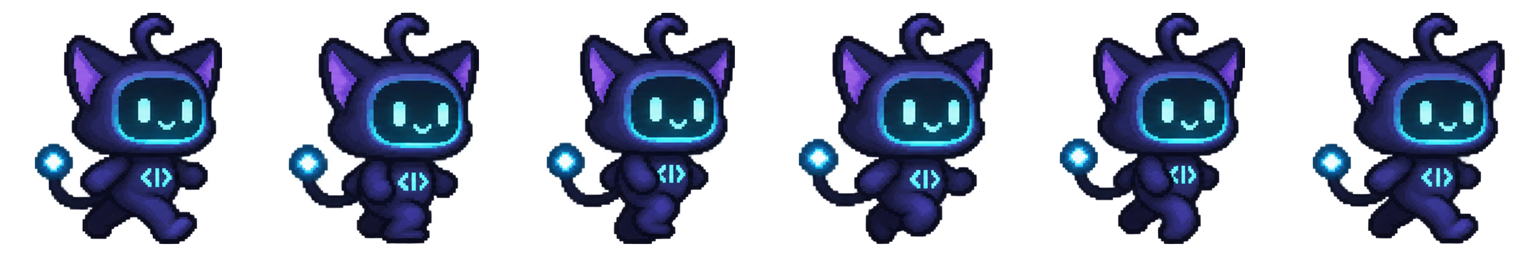
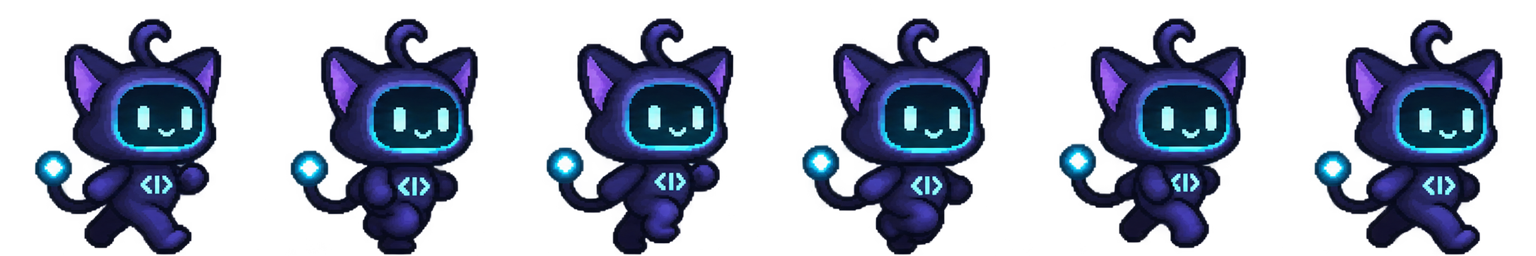
chore(debloat): promote v2 walk strips and drop the ones they replaced

diff --git a/apps/desktop/src/components/overlays/PetWindow.tsx b/apps/desktop/src/components/overlays/PetWindow.tsx
@@ -18,7 +18,7 @@ const BUILTIN_STRIPS: Record<string, Record<BuiltinPose, string>> = {
   },
   byte: {
     idle: new URL("../../../../../assets/pets/generated/byte-idle-frames.png", import.meta.url).href,
-    walk: new URL("../../../../../assets/pets/generated/byte-walk-frames-v2.png", import.meta.url).href,
+    walk: new URL("../../../../../assets/pets/generated/byte-walk-frames.png", import.meta.url).href,
     thinking: new URL("../../../../../assets/pets/generated/byte-thinking-frames.png", import.meta.url).href,
     coding: new URL("../../../../../assets/pets/generated/byte-coding-frames.png", import.meta.url).href,
     coding_malicious: new URL("../../../../../assets/pets/generated/byte-coding_malicious-frames.png", import.meta.url).href,
@@ -38,7 +38,7 @@ const BUILTIN_STRIPS: Record<string, Record<BuiltinPose, string>> = {
   },
   nova: {
     idle: new URL("../../../../../assets/pets/generated/nova-idle-frames.png", import.meta.url).href,
-    walk: new URL("../../../../../assets/pets/generated/nova-walk-frames-v2.png", import.meta.url).href,
+    walk: new URL("../../../../../assets/pets/generated/nova-walk-frames.png", import.meta.url).href,
     thinking: new URL("../../../../../assets/pets/generated/nova-thinking-frames.png", import.meta.url).href,
     coding: new URL("../../../../../assets/pets/generated/nova-coding-frames.png", import.meta.url).href,
     coding_malicious: new URL("../../../../../assets/pets/generated/nova-coding_malicious-frames.png", import.meta.url).href,
@@ -48,7 +48,7 @@ const BUILTIN_STRIPS: Record<string, Record<BuiltinPose, string>> = {
   },
   rocky: {
     idle: new URL("../../../../../assets/pets/generated/rocky-idle-frames.png", import.meta.url).href,
-    walk: new URL("../../../../../assets/pets/generated/rocky-walk-frames-v2.png", import.meta.url).href,
+    walk: new URL("../../../../../assets/pets/generated/rocky-walk-frames.png", import.meta.url).href,
     thinking: new URL("../../../../../assets/pets/generated/rocky-thinking-frames.png", import.meta.url).href,
     coding: new URL("../../../../../assets/pets/generated/rocky-coding-frames.png", import.meta.url).href,
     coding_malicious: new URL("../../../../../assets/pets/generated/rocky-coding_malicious-frames.png", import.meta.url).href,

diff --git a/DEBLOAT_PROGRESS.md b/DEBLOAT_PROGRESS.md
@@ -15,13 +15,15 @@ new history, not the existing `.git` pack (127 MiB at the start).
 - [x] 7. Compress the remaining PNGs losslessly with oxipng, keeping filenames and dimensions. — 17,555,947 bytes (418 PNGs, 67,652,804 → 50,096,857 bytes, using `oxipng 10.2.1 -o 4 --strip safe`; all 418 decode to identical pixels at the same dimensions through Electron `nativeImage`)
 - [x] 8. Make sure `.gitignore` covers `bin/`, `obj/`, `.tmp/`, `dist/`, `release/` and `node_modules/`, and add a check that flags new files over 1 MB. — 0 bytes (`.gitignore` now ignores `bin/`, `obj/` and `.tmp/` everywhere; `npm run check:hygiene`, which runs in both CI workflows, now fails on tracked files over 1 MiB that aren't on its allowlist, and also rejects tracked `release/`, `node_modules/` and `.tmp/` paths)
 
-**Total saved:** 85,769,311 bytes (steps 66,961,849 + follow-ups 18,807,462)
+**Total saved:** 86,824,907 bytes (steps 66,961,849 + follow-ups 19,863,058)
 
 ## Follow-ups (owner-approved after step 8)
 
 - [x] F1. Remove the unreferenced root `assets/pets/<pet>-<state>-<1..6>.png` frames (288) and root `<pet>-walk-frames.png`
   strips (6). — 18,807,462 bytes (measured after step 7 compression)
-- [ ] F2. Make the validator and rebuild script use the `-v2` walk strips, then remove the replaced ones.
+- [x] F2. Make the validator and rebuild script use the `-v2` walk strips, then remove the replaced ones. — 1,055,596 bytes
+  (byte/nova/rocky `-walk-frames-v2.png` replaced their `-walk-frames.png`; `PetWindow.tsx` uses one name for every pet,
+  so `check:pet-assets` now validates the walk strips actually shown; the rebuild script skips those three pets' walk strips)
 - [ ] F3. Shrink the 4 branding PNGs below 1 MiB (lossy, approved by the owner).
 - [ ] F4. Remove the `../skai-debloat` worktree.
 
@@ -90,10 +92,7 @@ for the 6 pets × 7 non-walk states. There are no other duplicates under `assets
   `legacy-tools/make-pet-frames.ps1`, so they're kept alongside it. (The step 1 audit wrongly listed them as unreferenced.)
 - **Walk sources (5,347,226 bytes, 6 files):** `normalize-pet-animations.ps1` reads `generated/$pet-walk-source.png`, and the
   pets README calls them the editable inputs. They're only removable if that rebuild path is retired.
-- **Walk strips replaced by `-v2` (1,475,957 bytes):** `generated/{byte,nova,rocky}-walk-frames.png` aren't loaded at runtime,
-  but `validate-pet-assets.cjs` requires `${pet}-walk-frames.png` for every pet, and the rebuild script writes that name
-  (not `-v2`). Rerunning the rebuild would not update the `-v2` strips the app actually uses. To remove them, first make
-  the validator and rebuild script aware of `-v2`.
+  Byte, Nova and Rocky's sources no longer feed the runtime walk strips (F2) and are kept for reference only.
 - **`normalize-pet-animations.ps1`:** step 3 changed its default input to `generated/`. The change wasn't run, because
   PowerShell (`pwsh`) isn't installed here.
 - **`archive/legacy-tools/`** (11 KB) still reads and writes the removed `*-sprite-sheet.png` files, so those scripts

diff --git a/assets/pets/README.md b/assets/pets/README.md
@@ -19,6 +19,9 @@ replacement strips in from somewhere else.
 Users can still assign local SVG/PNG/JPEG/WebP frames from the pet customization dialog; custom
 files stay on the device.
 
-Percy is the official Skai Desktop mascot and the default companion for new profiles. The six
-walk source strips in `generated/` are kept as the editable visual inputs; no atlas is required
-or loaded by the renderer.
+Byte, Nova and Rocky use hand-tuned walk strips that weren't made from their walk sources, so the rebuild
+script leaves their `walk` strip alone. Edit those strips directly.
+
+Percy is the official Skai Desktop mascot and the default companion for new profiles. The walk
+source strips in `generated/` are the editable inputs for Percy, Ember and Sprout (Byte, Nova and Rocky's
+are kept for reference). No atlas is required or loaded by the renderer.
